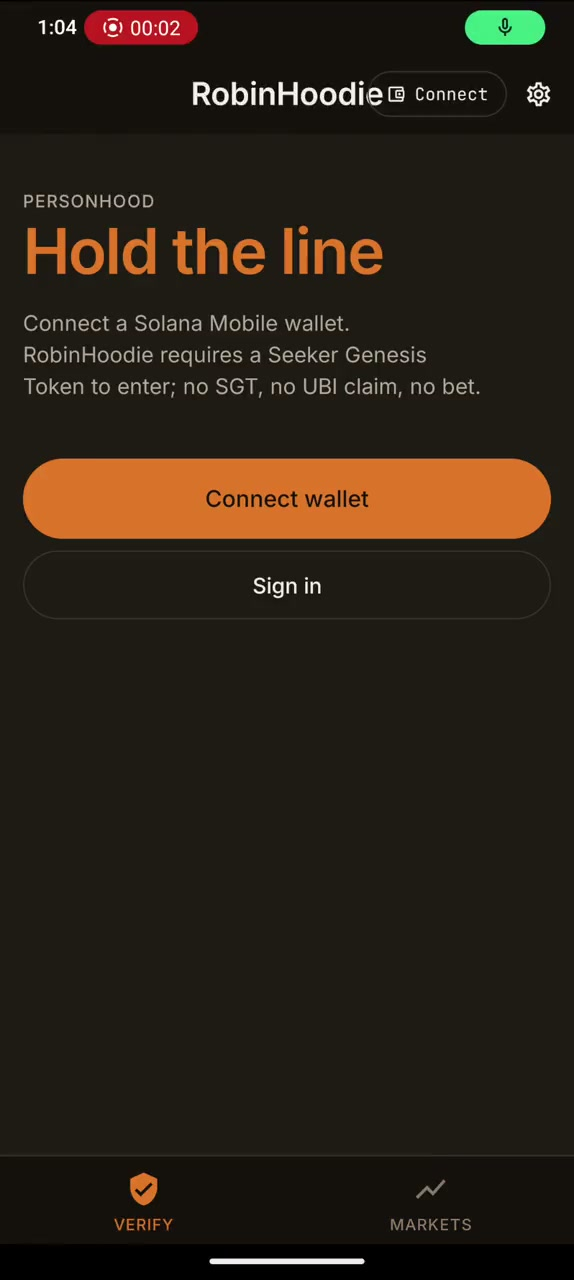
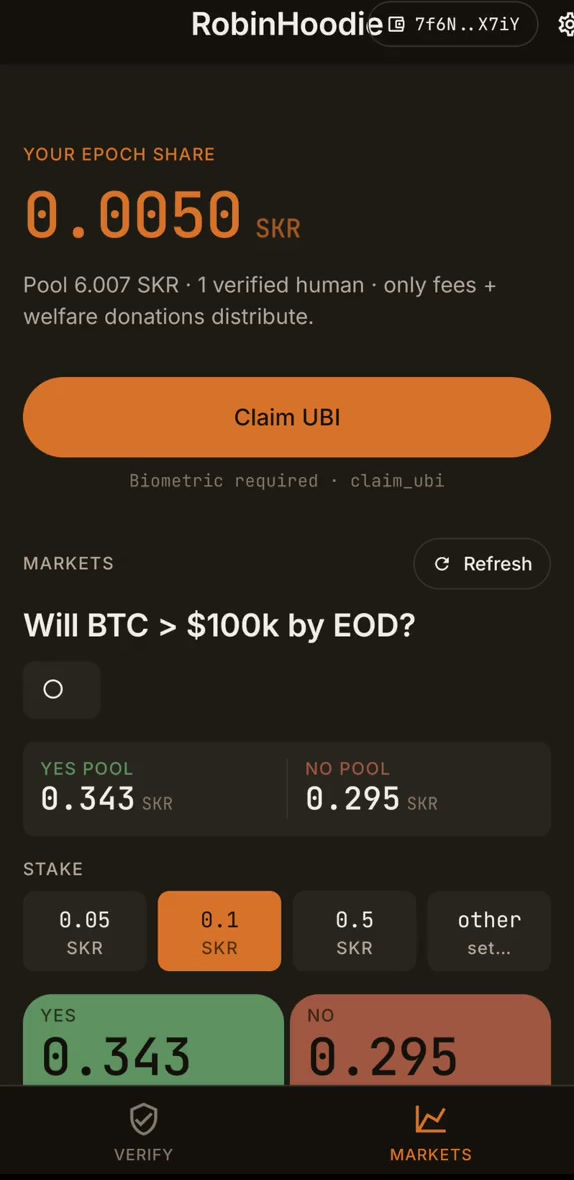
docs: replace video element with clickable thumbnail in README

diff --git a/README.md b/README.md
@@ -16,7 +16,7 @@ The app cannot run without a Seeker. Personhood is gated on on-chain ownership o
 > **A note on the currency labels.** The app + widget present every amount as **SKR** (Solana Mobile's native token, which is what the prediction-market product would actually denominate in for ecosystem alignment). On devnet today the value flowing under the hood is still SOL — every "0.1 SKR" the user sees corresponds to 0.1 SOL on-chain. The swap to a real SKR SPL transfer (`@solana/spl-token`'s `transfer` instead of `system_program::transfer`) is a single-instruction program change documented in the v0.2 plan; the UI is already SKR-clean.
 
 <p align="center">
-  <video src="media/pitch.mp4" controls width="360"></video>
+  <a href="media/pitch.mp4"><img src="media/pitch_thumb.jpg" alt="2-minute pitch — click to play" width="320" /></a>
 </p>
 
 <p align="center"><sub>📹 <a href="media/pitch.mp4">2-minute pitch (mp4)</a> — what RobinHoodie is and why Seeker is the hard requirement.</sub></p>